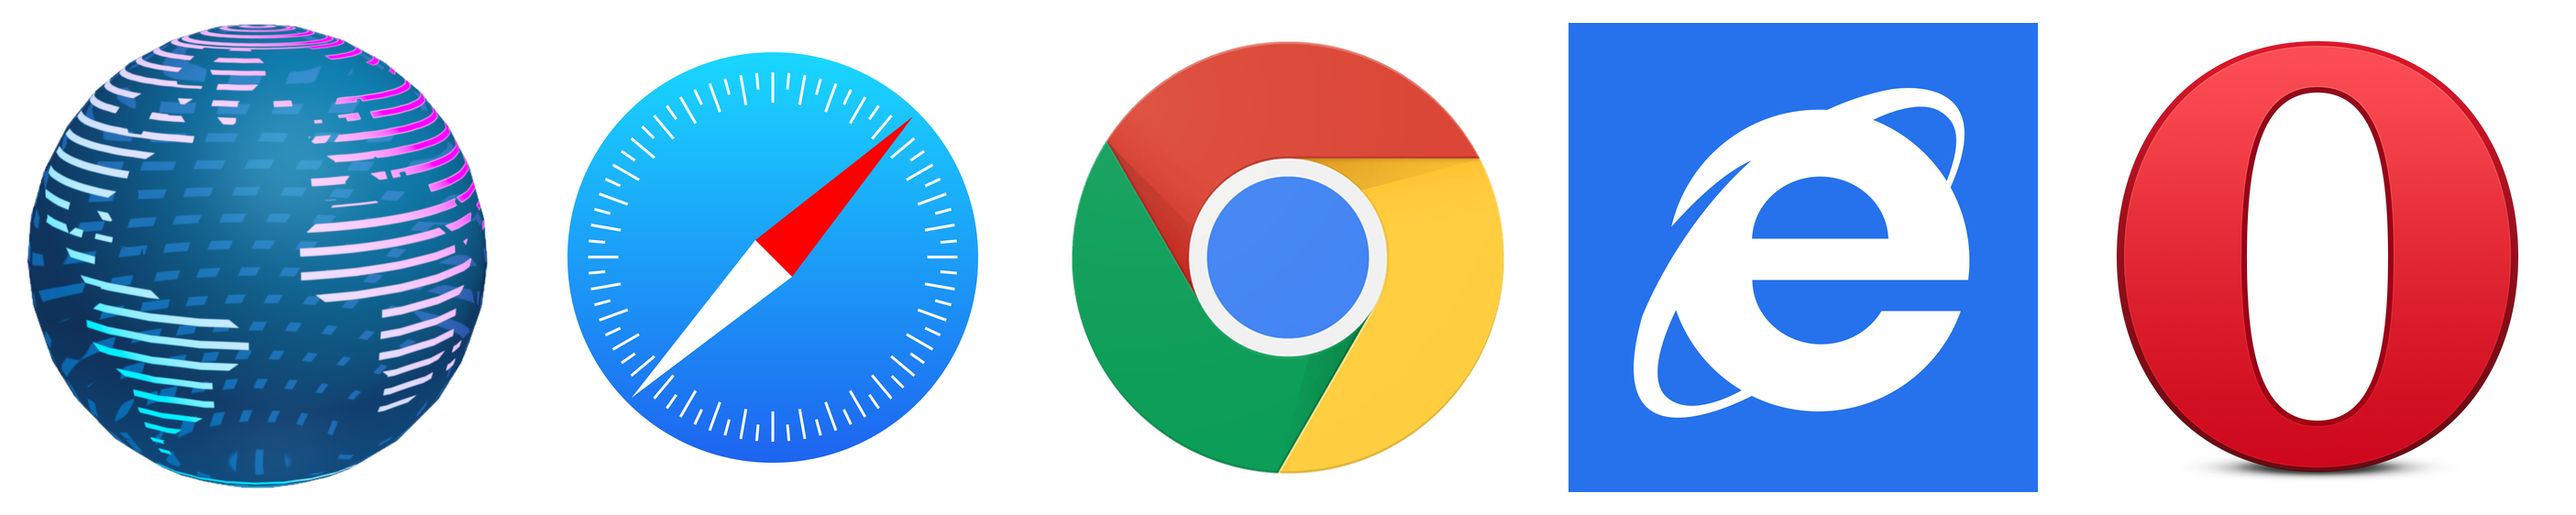
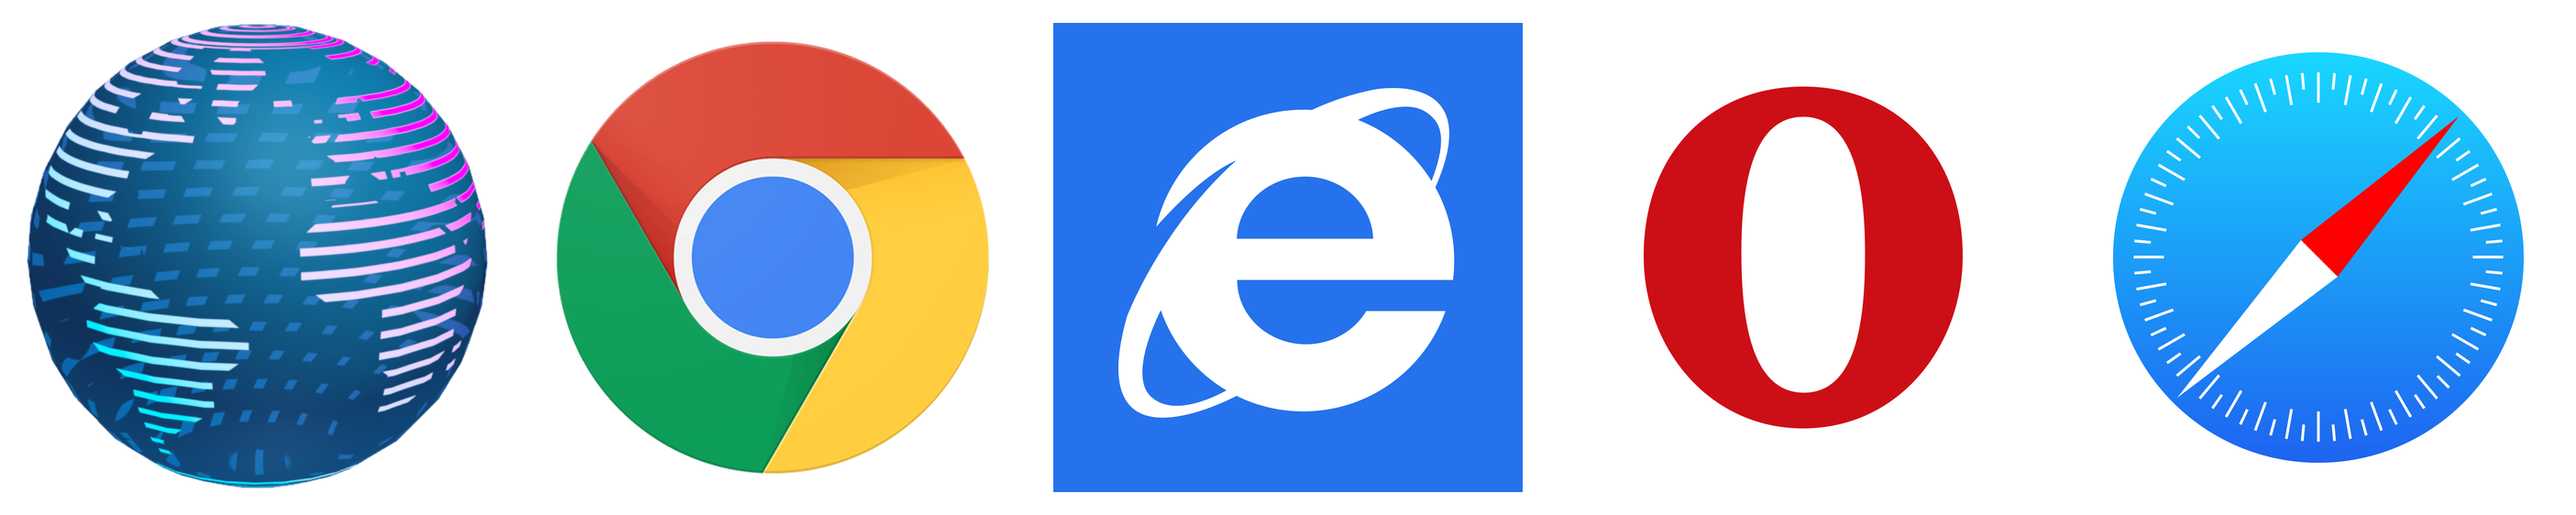
Make generate-images.sh create `main-mobile.png`
* Change the `generate-images.sh` script so that it automatically
  generates the `main-mobile.png` image when any of the logos included
  in it are changed.

* Regenerate the `main-mobile.png` image.

Ref alrra/browser-logos#54
    alrra/browser-logos#56

diff --git a/CHANGELOG.md b/CHANGELOG.md
@@ -1,6 +1,10 @@
 ### HEAD
 
-* Add Opera Mini logo.
+* Add `main-mobile.png`
+  [[#54](https://github.com/alrra/browser-logos/issues/54)]
+  [[#56](https://github.com/alrra/browser-logos/issues/56)].
+* Add Opera Mini logo
+  [[8dda27f](https://github.com/alrra/browser-logos/commit/8dda27fbf2dce1c2870ea4115fa198c2bf64233a)].
 * Add Android browser logo
   [[#55](https://github.com/alrra/browser-logos/issues/55)].
 
